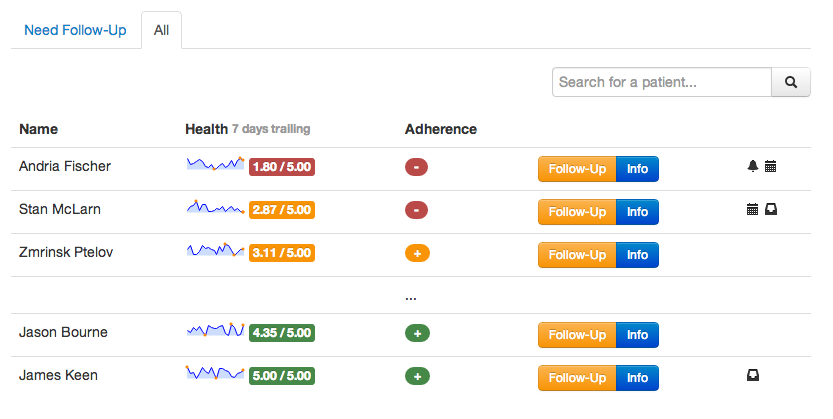
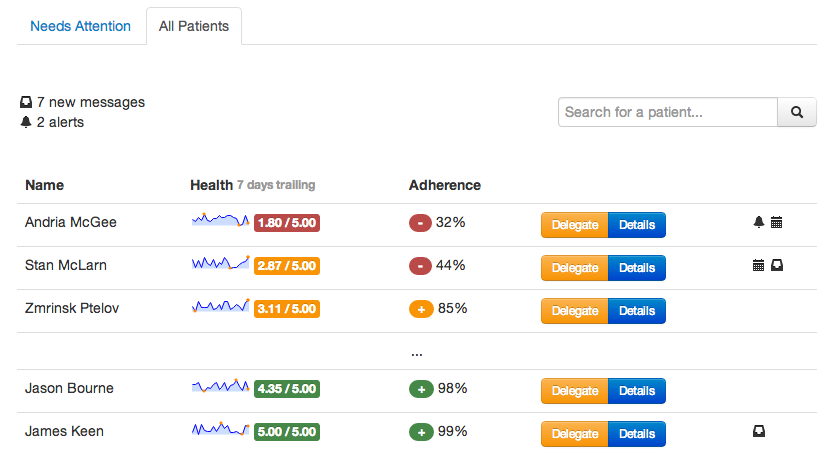
fixed up patient list

diff --git a/healthtracker/templates/doctor_console.html b/healthtracker/templates/doctor_console.html
@@ -9,26 +9,39 @@ $(".sparkline").each(function(idx,el)
     randoms.push(Math.random());
   $(el).sparkline(randoms);
 });
+
+$(".icon-bell").tooltip({title:"An alert has been sent to RN (Becky Z.)"});
+$(".icon-calendar").tooltip({title:"There is an upcoming appointment for this patient."});
+$(".icon-inbox").tooltip({title:"This patient has sent an unread message."});
+
+$("td.name").popover({trigger:"hover", placement:"right", content: "Patient is 39 years old with a history of sleep apnea and cardiovascular stress. "})
 });
+
 
 </script>
 {% endblock %}
 {% block body %}
-<ul class="nav nav-tabs console-table row">
+<div class="wrapper">
+<ul class="nav nav-tabs">
   <li class="">
-    <a href="#">Need Follow-Up</a>
+    <a href="#">Needs Attention</a>
   </li>
   <li class="active">
-    <a href="#">All</a>
+    <a href="#">All Patients</a>
   </li>
 </ul>
-<div class="console-table row table-info span12">
-  <form class="navbar-search pull-right input-append" style="float:right;">
+<div class="table-details">
+  <div class="pull-left">
+    <i class="icon-inbox"></i> 7 new messages
+    <br>
+    <i class="icon-bell"></i> 2 alerts
+  </div>
+  <form class="navbar-search pull-right input-append">
     <input type="text" placeholder="Search for a patient...">
     <button class="btn"><i class="icon-search"></i></button>
   </form>
 </div>
-<table class="table console-table">
+<table class="table">
   <thead>
     <tr>
       <th>Name</th>
@@ -40,16 +53,16 @@ $(".sparkline").each(function(idx,el)
   </thead>
   <tbody>
     <tr>
-      <td>Andria Fischer</td>
+      <td class="name" title="Andria McGee">Andria McGee</td>
       <td>
         <span class="sparkline"></span>
         <span class="label label-important">1.80 / 5.00</span>
       </td>
-      <td><span class="badge badge-important">-</span></td>
+      <td><span class="badge badge-important">-</span> 32%</td>
       <td>
         <div class="btn-group">
-          <button class="btn btn-small btn-warning">Follow-Up</button>
-          <button class="btn btn-small btn-primary">Info</button>
+          <button class="btn btn-small btn-warning">Delegate</button>
+          <button class="btn btn-small btn-primary">Details</button>
         </div>
       </td>
       <td>
@@ -59,16 +72,16 @@ $(".sparkline").each(function(idx,el)
     </tr>
 
     <tr>
-      <td>Stan McLarn</td>
+      <td class="name" title="Stan McLarn">Stan McLarn</td>
       <td>
         <span class="sparkline"></span>
         <span class="label label-warning">2.87 / 5.00</span>
       </td>
-      <td><span class="badge badge-important">-</span></td>
+      <td><span class="badge badge-important">-</span> 44%</td>
       <td>
         <div class="btn-group">
-          <button class="btn btn-small btn-warning">Follow-Up</button>
-          <button class="btn btn-small btn-primary">Info</button>
+          <button class="btn btn-small btn-warning">Delegate</button>
+          <button class="btn btn-small btn-primary">Details</button>
         </div>
       </td>
       <td>
@@ -78,16 +91,16 @@ $(".sparkline").each(function(idx,el)
     </tr>
 
     <tr>
-      <td>Zmrinsk Ptelov</td>
+      <td class="name" title="Zmrinsk Ptelov">Zmrinsk Ptelov</td>
       <td>
         <span class="sparkline"></span>
         <span class="label label-warning">3.11 / 5.00</span>
       </td>
-      <td><span class="badge badge-warning">+</span></td>
+      <td><span class="badge badge-warning">+</span> 85%</td>
       <td>
         <div class="btn-group">
-          <button class="btn btn-small btn-warning">Follow-Up</button>
-          <button class="btn btn-small btn-primary">Info</button>
+          <button class="btn btn-small btn-warning">Delegate</button>
+          <button class="btn btn-small btn-primary">Details</button>
         </div>
       </td>
       <td></td>
@@ -98,32 +111,32 @@ $(".sparkline").each(function(idx,el)
     </tr>
 
     <tr>
-      <td>Jason Bourne</td>
+      <td class="name" title="Jason Bourne">Jason Bourne</td>
       <td>
         <span class="sparkline"></span>
         <span class="label label-success">4.35 / 5.00</span>
       </td>
-      <td><span class="badge badge-success">+</span></td>
+      <td><span class="badge badge-success">+</span> 98%</td>
       <td>
         <div class="btn-group">
-          <button class="btn btn-small btn-warning">Follow-Up</button>
-          <button class="btn btn-small btn-primary">Info</button>
+          <button class="btn btn-small btn-warning">Delegate</button>
+          <button class="btn btn-small btn-primary">Details</button>
         </div>
       </td>
       <td></td>
     </tr>
 
     <tr>
-      <td>James Keen</td>
+      <td class="name" title="James Keen">James Keen</td>
       <td>
         <span class="sparkline"></span>
         <span class="label label-success">5.00 / 5.00</span>
       </td>
-      <td><span class="badge badge-success">+</span></td>
+      <td><span class="badge badge-success">+</span> 99%</td>
       <td>
         <div class="btn-group">
-          <button class="btn btn-small btn-warning">Follow-Up</button>
-          <button class="btn btn-small btn-primary">Info</button>
+          <button class="btn btn-small btn-warning">Delegate</button>
+          <button class="btn btn-small btn-primary">Details</button>
         </div>
       </td>
       <td>
@@ -141,4 +154,5 @@ $(".sparkline").each(function(idx,el)
   <!--   </tr> -->
   <!-- </tfoot> -->
 </table>
+</div>
 {% endblock %}

diff --git a/healthtracker/static/css/style.css b/healthtracker/static/css/style.css
@@ -33,11 +33,15 @@ body { padding: 0; margin: 0;}
 
 .tracker-holder { margin-top: 33px; }
 
-ul.console-table { margin-top:33px !important; }
-.console-table { margin: 0 auto !important; float: none !important; width: 800px; }
+/* ul.console-table { margin-top:33px !important; } */
+/* .console-table { margin: 0 auto !important; float: none !important; width: 800px; } */
 
-.table-info { padding: 13px; }
+div.wrapper { margin: 20px auto; width: 800px;}
+
+.table-details { margin: 0 0 37px -18px; }
 
 tfoot { border-top: 1px solid #cdcdcd; }
 tfoot td { border: 0 !important; }
 tfoot td { text-align: right !important; padding-right: 100px !important; }
+
+.table-details { padding: 27px 0 37px 20px; }
